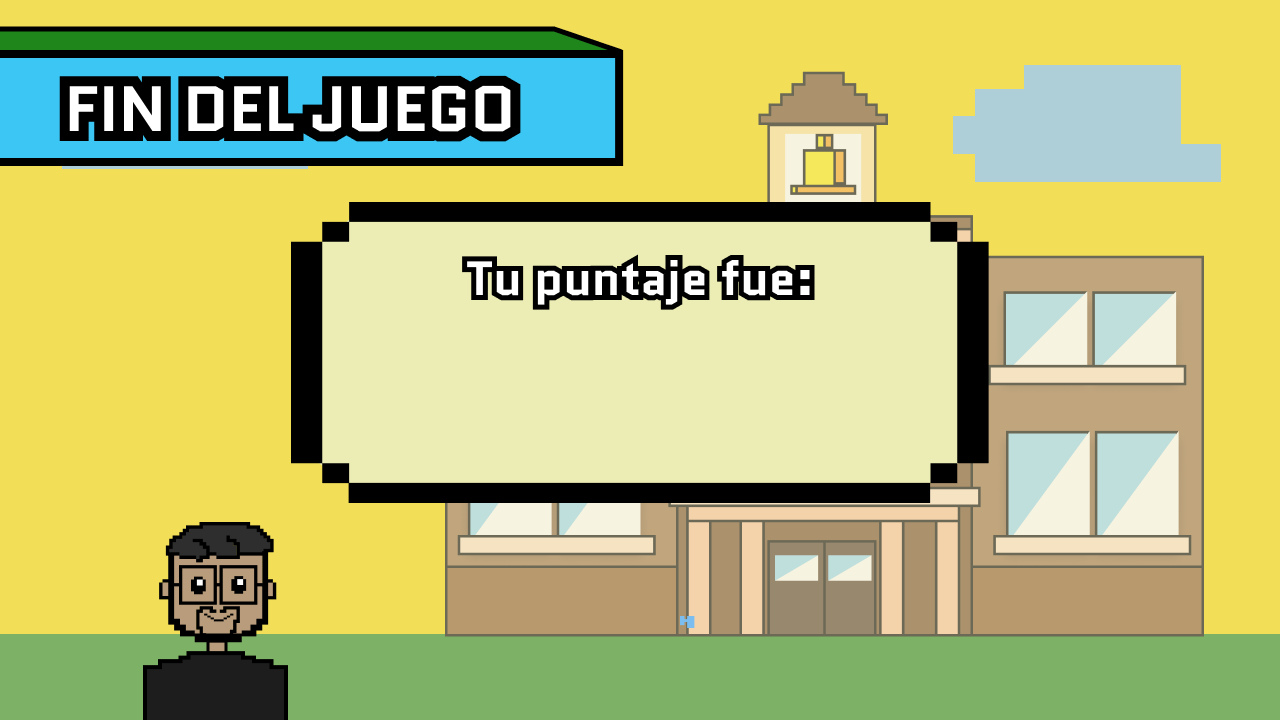
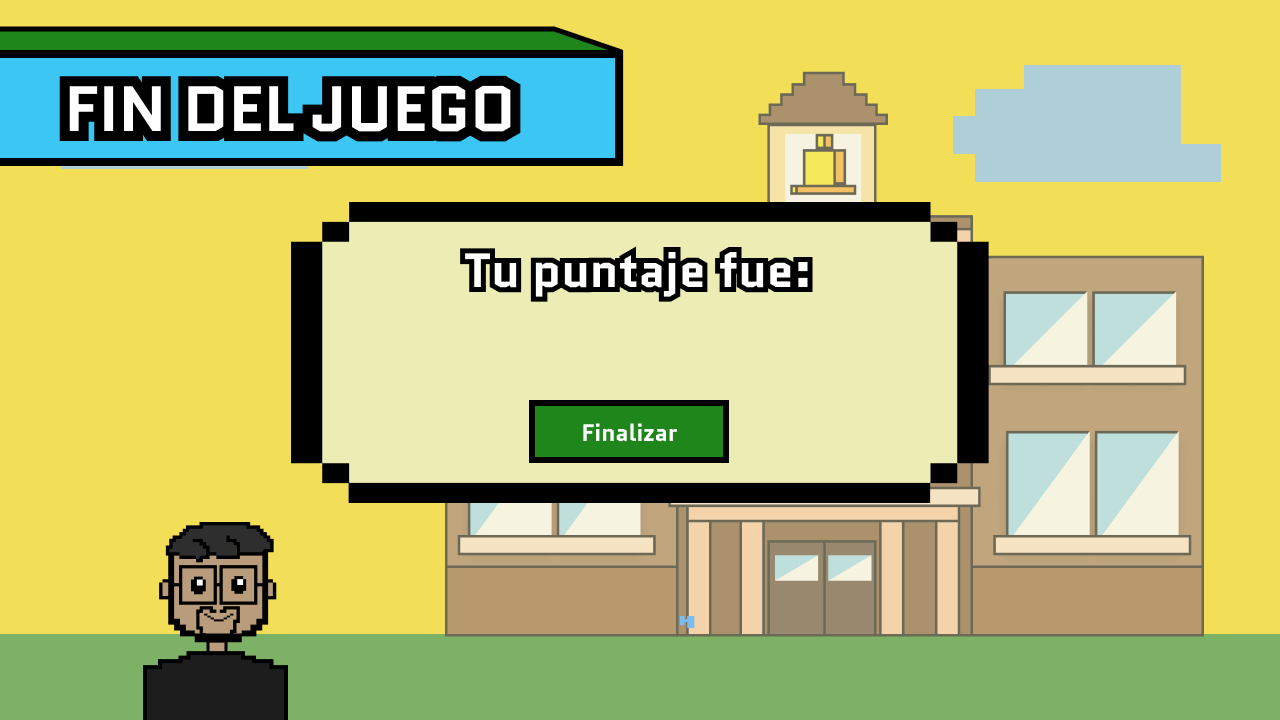
poner la función addResult(), addState(), finish()

Changed region(s): [[0.3438, 0.3361, 0.6562, 0.4278], [0.4062, 0.55, 0.5938, 0.6417]]

diff --git a/src/components/Actividad/src/JuegoVirtual.js b/src/components/Actividad/src/JuegoVirtual.js
@@ -1,3 +1,4 @@
+import { finished } from "stream";
 import imgUtil from "./utilImg";
 
 class JuegoVirtual {
@@ -73,7 +74,7 @@ class JuegoVirtual {
 
         app.image(this.bg, 0, 0);
 
-        console.log(app.mouseX, app.mouseY);
+        //console.log(app.mouseX, app.mouseY);
 
         //Validando esa vaina del profesor
         switch (this.pantallaFeedbacks) {
@@ -102,7 +103,7 @@ class JuegoVirtual {
                         break;
                     case 4:
                         app.textSize(48);
-                        app.text(this.puntajesProfe, 600, 402);
+                        app.text(this.puntajesProfe, 600, 372);
                         break;
                 }
 
@@ -355,6 +356,14 @@ class JuegoVirtual {
                     this.responderBoolean = true;
                 }
                 break;
+                case 4:
+                    if (app.mouseX > 529 && app.mouseX <= 529 + 200 && app.mouseY > 400 && app.mouseY <= 400 + 63 && this.responderBoolean == false && this.pages == 10){
+                        console.log("funciono para apagar");
+                        this.actividad.addResult([{id:"LICENCIATURA", value: this.puntajes}]);
+                        this.actividad.addState("estadoDePaciente","true");
+                        this.actividad.finish();
+                    }
+                    break;
         }
 
         //Los click para las notas
@@ -536,7 +545,7 @@ class JuegoVirtual {
                     break;
                 case 4:
                     this.preguntas = 4;
-
+                    
                     this.bg = app.loadImage(imgUtil.end);
                     break;
             }
